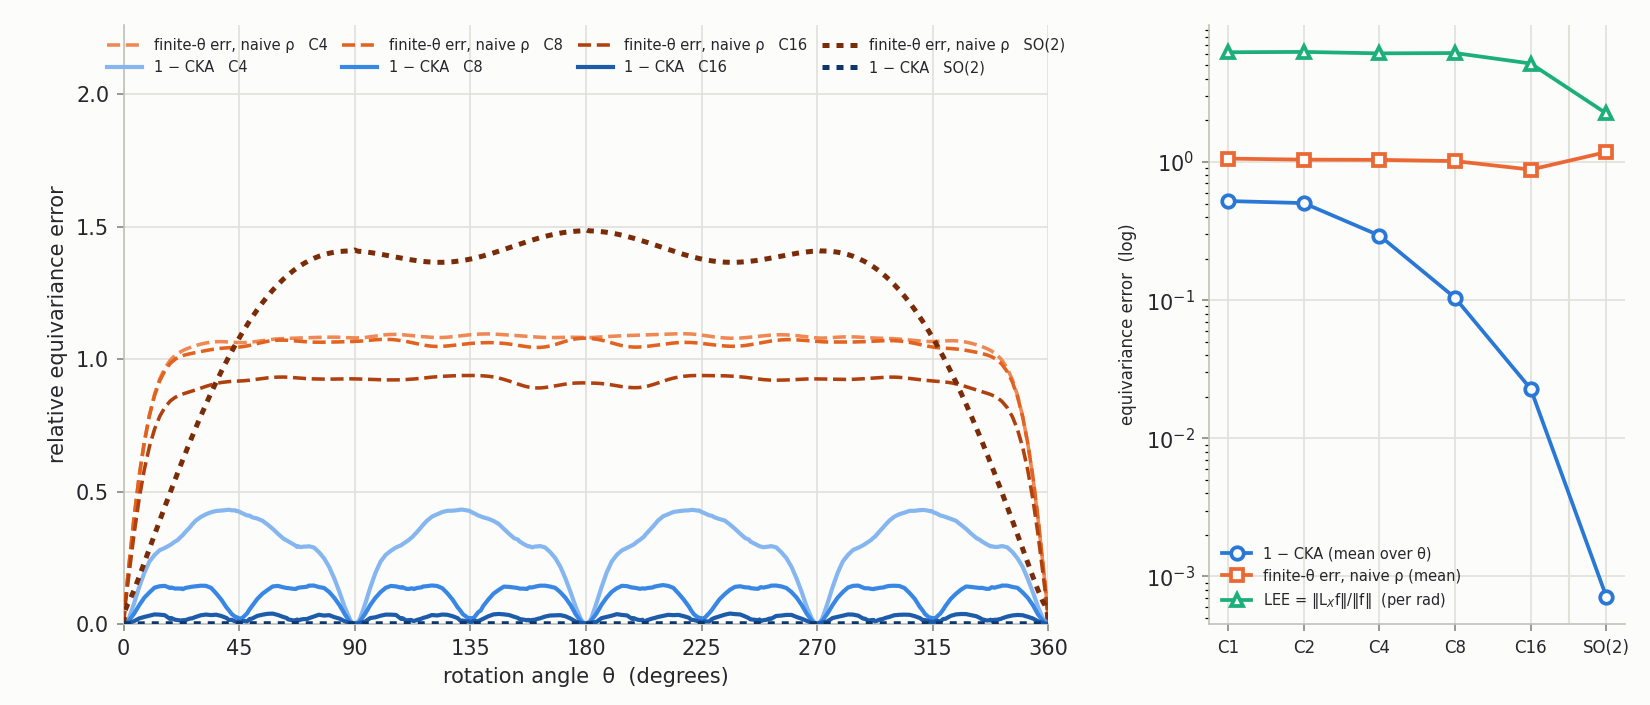
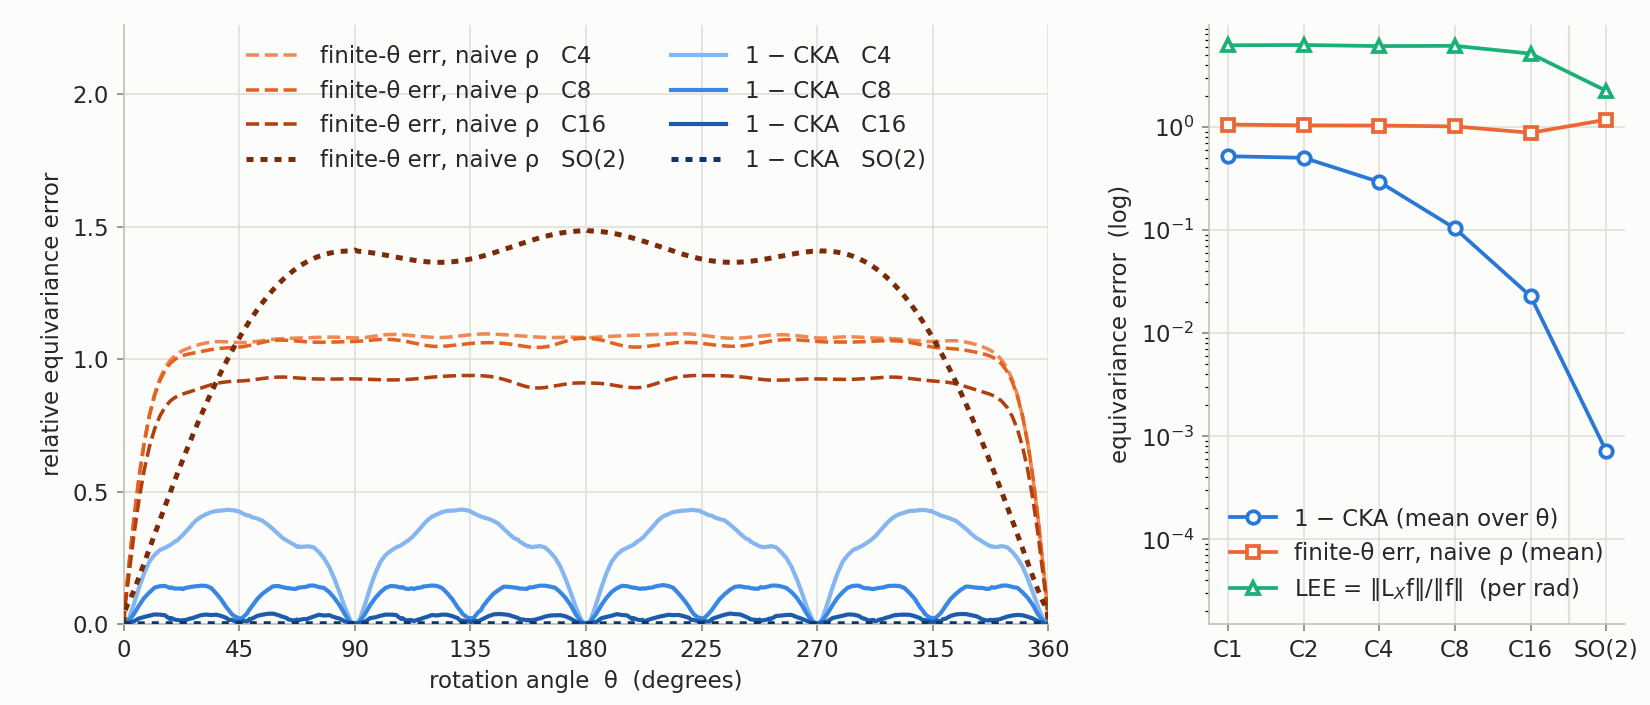
bump size of text

diff --git a/src/escnn_experiments/cn_angle_sweep_demo.py b/src/escnn_experiments/cn_angle_sweep_demo.py
@@ -730,7 +730,7 @@ def plot_lee(angles, data, path):
             a.spines[side].set_visible(False)
         for side in ("left", "bottom"):
             a.spines[side].set_color("#c3c2b7")
-        a.tick_params(colors=MUTED, labelcolor=INK)
+        a.tick_params(colors=MUTED, labelcolor=INK, labelsize=11)
         a.grid(color=GRID, lw=0.8, zorder=0)
         a.set_axisbelow(True)
     fig.patch.set_facecolor(SURFACE)
@@ -756,10 +756,13 @@ def plot_lee(angles, data, path):
     ax.set_xlim(0, 360)
     ax.set_ylim(0, max(series(N, "lee").max() for N in shown + [-1]) * 1.52)
     ax.set_xticks(np.arange(0, 361, 45))
-    ax.set_xlabel("rotation angle  \u03b8  (degrees)", color=INK)
-    ax.set_ylabel("relative equivariance error", color=INK)
-    ax.legend(loc="upper center", ncol=4, frameon=False, fontsize=7,
-              labelcolor=INK, columnspacing=1.0, handlelength=2.4)
+    ax.set_xlabel("rotation angle  \u03b8  (degrees)", color=INK, fontsize=11)
+    ax.set_ylabel("relative equivariance error", color=INK, fontsize=11)
+    # Two columns: finite-theta series on the left, CKA on the right.
+    h, l = ax.get_legend_handles_labels()
+    ax.legend(h[0::2] + h[1::2], l[0::2] + l[1::2], loc="upper center", ncol=2,
+              frameon=False, fontsize=11, labelcolor=INK, columnspacing=2.0,
+              handlelength=2.4)
 
     order = finite + [-1]
     nn = np.arange(len(order))
@@ -777,11 +780,13 @@ def plot_lee(angles, data, path):
         axb.plot(nn, vals, mk, color=CAT[key], lw=1.8, ms=6, mfc=SURFACE, mew=1.8,
                  zorder=3, label=label)
     axb.set_xticks(nn)
-    axb.set_xticklabels([f"C{N}" for N in finite] + ["SO(2)"], fontsize=8)
+    axb.set_xticklabels([f"C{N}" for N in finite] + ["SO(2)"], fontsize=11)
     axb.axvline(len(finite) - 0.5, color=GRID, lw=1.0, zorder=1)
     axb.set_yscale("log")
-    axb.set_ylabel("equivariance error  (log)", color=INK, fontsize=8)
-    axb.legend(loc="lower left", frameon=False, fontsize=7, labelcolor=INK,
+    # Headroom below the SO(2) CKA point so the legend clears the data.
+    axb.set_ylim(bottom=axb.get_ylim()[0] / 30)
+    axb.set_ylabel("equivariance error  (log)", color=INK, fontsize=11)
+    axb.legend(loc="lower left", frameon=False, fontsize=11, labelcolor=INK,
                handlelength=2.0)
 
     fig.subplots_adjust(top=0.965, bottom=0.115, left=0.075, right=0.985)
